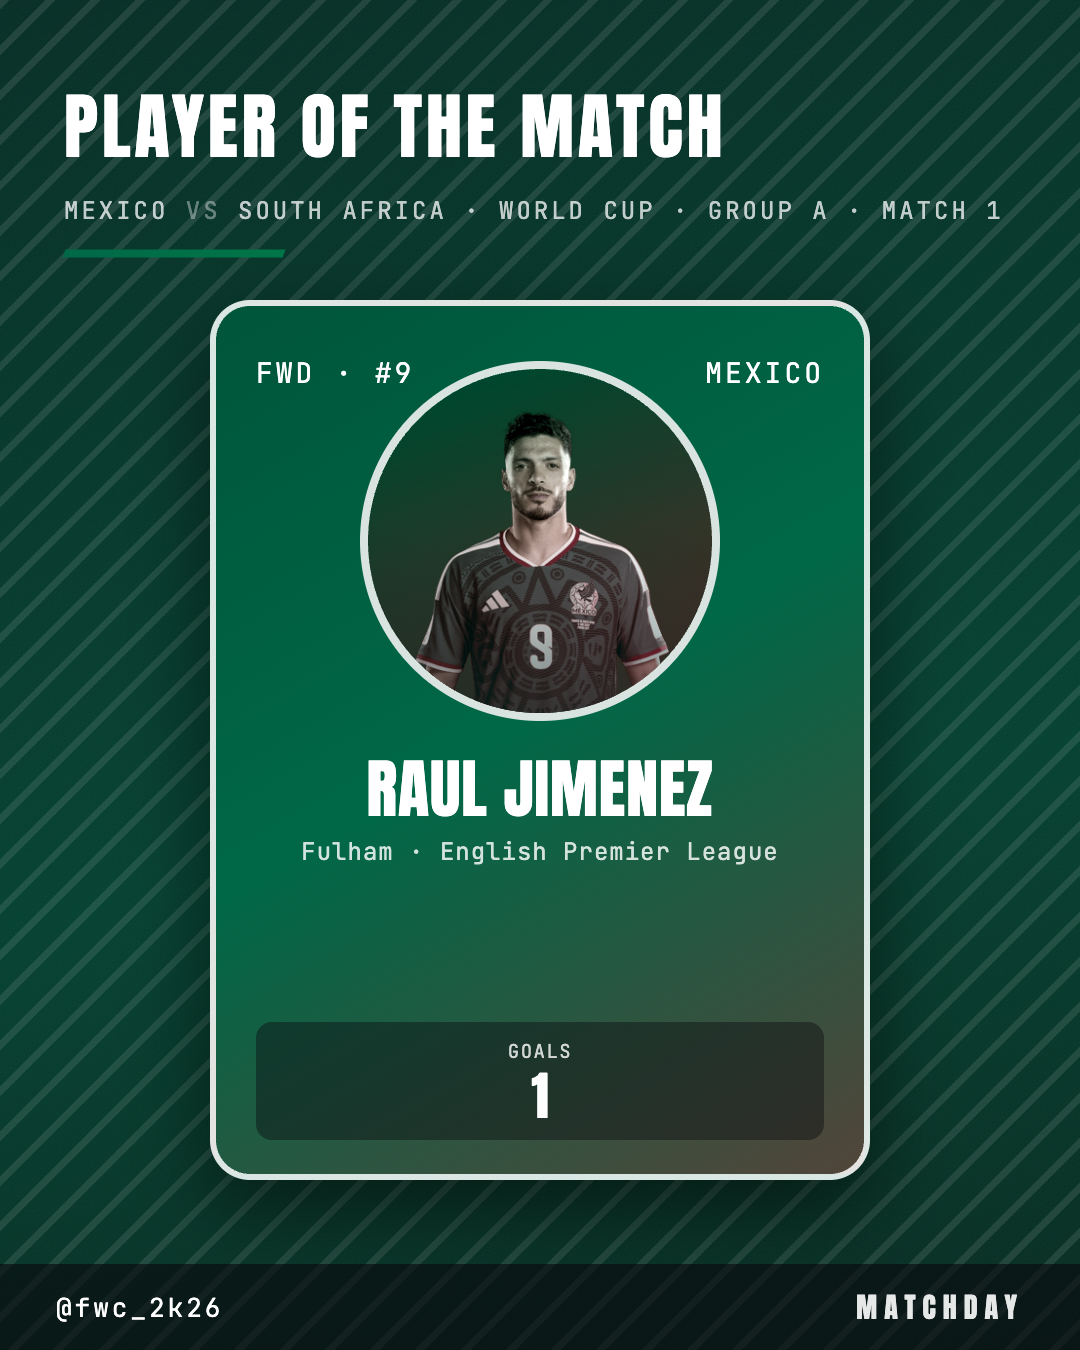
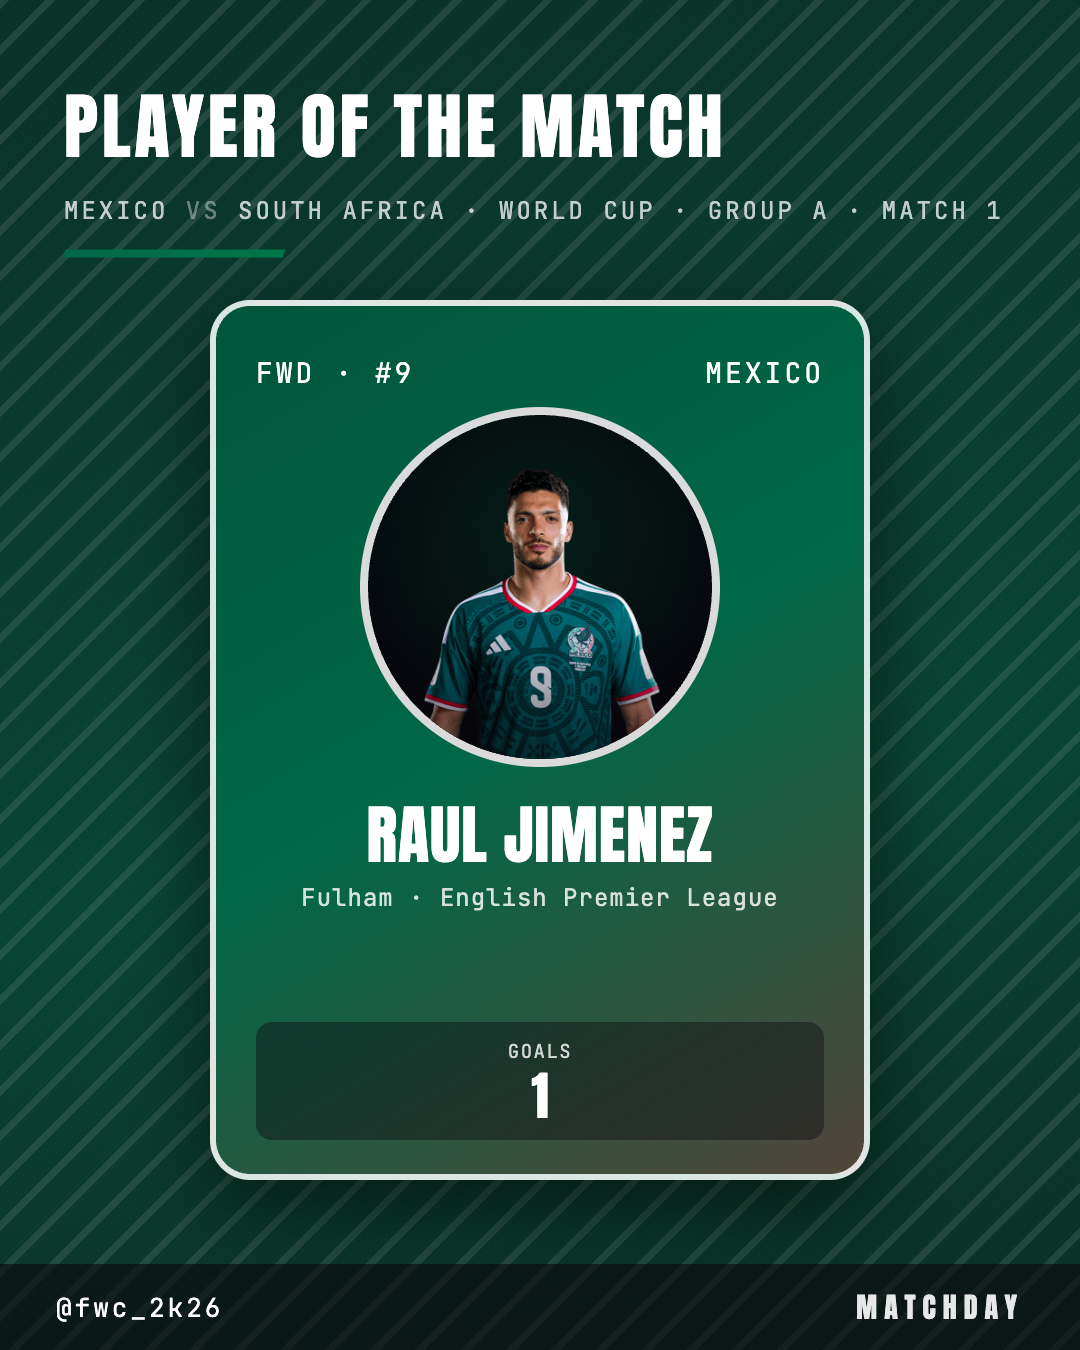
MOTM card: dark backdrop disc so player pops on same-colour kits; stop circle clipping team label; add headroom

Changed region(s): [[0.275, 0.2489, 0.7028, 0.6844]]

diff --git a/CarouselStudio.html b/CarouselStudio.html
@@ -266,7 +266,7 @@ input[type=file]::file-selector-button:hover{border-color:var(--acc);color:var(-
 .motm-top{width:100%;display:flex;justify-content:space-between;align-items:flex-start;}
 .motm-rate{font-family:'Anton',sans-serif;font-size:calc(var(--u)*120);line-height:.95;}
 .motm-pos{font-family:'JetBrains Mono',monospace;font-size:calc(var(--u)*28);letter-spacing:calc(var(--u)*3);margin-top:calc(var(--u)*8);text-transform:uppercase;}
-.motm-photo{width:calc(var(--u)*360);height:calc(var(--u)*360);border-radius:50%;object-fit:cover;border:calc(var(--u)*8) solid rgba(255,255,255,.85);margin-top:calc(var(--u)*-30);background:rgba(0,0,0,.25);}
+.motm-photo{width:calc(var(--u)*360);height:calc(var(--u)*360);border-radius:50%;object-fit:cover;border:calc(var(--u)*8) solid rgba(255,255,255,.85);margin-top:calc(var(--u)*16);background:rgba(0,0,0,.25);}
 .motm-photo.ph{display:flex;align-items:center;justify-content:center;font-size:calc(var(--u)*120);}
 .motm-name{font-family:'Anton',sans-serif;font-size:calc(var(--u)*64);text-transform:uppercase;text-align:center;line-height:1.05;margin-top:calc(var(--u)*34);letter-spacing:calc(var(--u)*1);}
 .motm-club{font-family:'JetBrains Mono',monospace;font-size:calc(var(--u)*24);text-align:center;opacity:.82;margin-top:calc(var(--u)*14);letter-spacing:calc(var(--u)*1);line-height:1.3;}
@@ -775,12 +775,14 @@ function buildStats(A,B){
 function buildMotm(A,B){
   const T=S.motm.team==="B"?B:A, other=S.motm.team==="B"?A:B;
   const tn=S.motm.team==="B"?team(S.teamB).n:team(S.teamA).n;
-  // full-body cutouts (FIFA) anchored at the top + zoomed -> head-to-chest framing
-  const tintOverlays = `<span style="position:absolute;inset:0;background:linear-gradient(160deg, ${alpha(T.primary,.58)} 0%, ${alpha(T.accent,.5)} 100%);mix-blend-mode:color;"></span><span style="position:absolute;inset:0;background:linear-gradient(180deg, transparent 45%, ${alpha(T.deep,.55)} 100%);"></span>`;
+  // full-body cutouts (FIFA) anchored at the top + zoomed -> head-to-chest framing,
+  // on a DARK backdrop disc so the player pops even when their kit matches the card colour.
+  const photoBg = `radial-gradient(circle at 50% 36%, ${mix(T.primary,'#05050a',0.72)} 0%, #07070d 74%)`;
+  const themeWash = `<span style="position:absolute;inset:0;background:linear-gradient(160deg, ${alpha(T.primary,.20)} 0%, ${alpha(T.accent,.14)} 100%);mix-blend-mode:soft-light;"></span><span style="position:absolute;inset:0;background:linear-gradient(180deg, transparent 58%, ${alpha('#05050a',.55)} 100%);"></span>`;
   const photo=S.motm.img
-    ? `<div class="motm-photo" style="position:relative;overflow:hidden;">
-         <img src="${S.motm.img}" alt="" style="position:absolute;top:0;left:50%;transform:translateX(-50%);width:170%;height:auto;${S.motmTint?"filter:grayscale(.5) contrast(1.06) brightness(1.02);":""}">
-         ${S.motmTint?tintOverlays:""}
+    ? `<div class="motm-photo" style="position:relative;overflow:hidden;background:${photoBg};">
+         <img src="${S.motm.img}" alt="" style="position:absolute;top:4%;left:50%;transform:translateX(-50%);width:158%;height:auto;${S.motmTint?"filter:contrast(1.04) saturate(1.06);":""}">
+         ${S.motmTint?themeWash:""}
        </div>`
     : `<div class="motm-photo ph" style="color:${alpha(T.ink,.5)};">👤</div>`;
   const chips=S.motm.chips.filter(c=>String(c[0]).trim()||String(c[1]).trim()).map(c=>`<div class="motm-chip" style="color:${T.ink};"><div class="cl">${esc(c[0])}</div><div class="cvv" style="color:${T.ink==='#ffffff'?T.secondary:T.ink};">${esc(c[1])}</div></div>`).join("");
